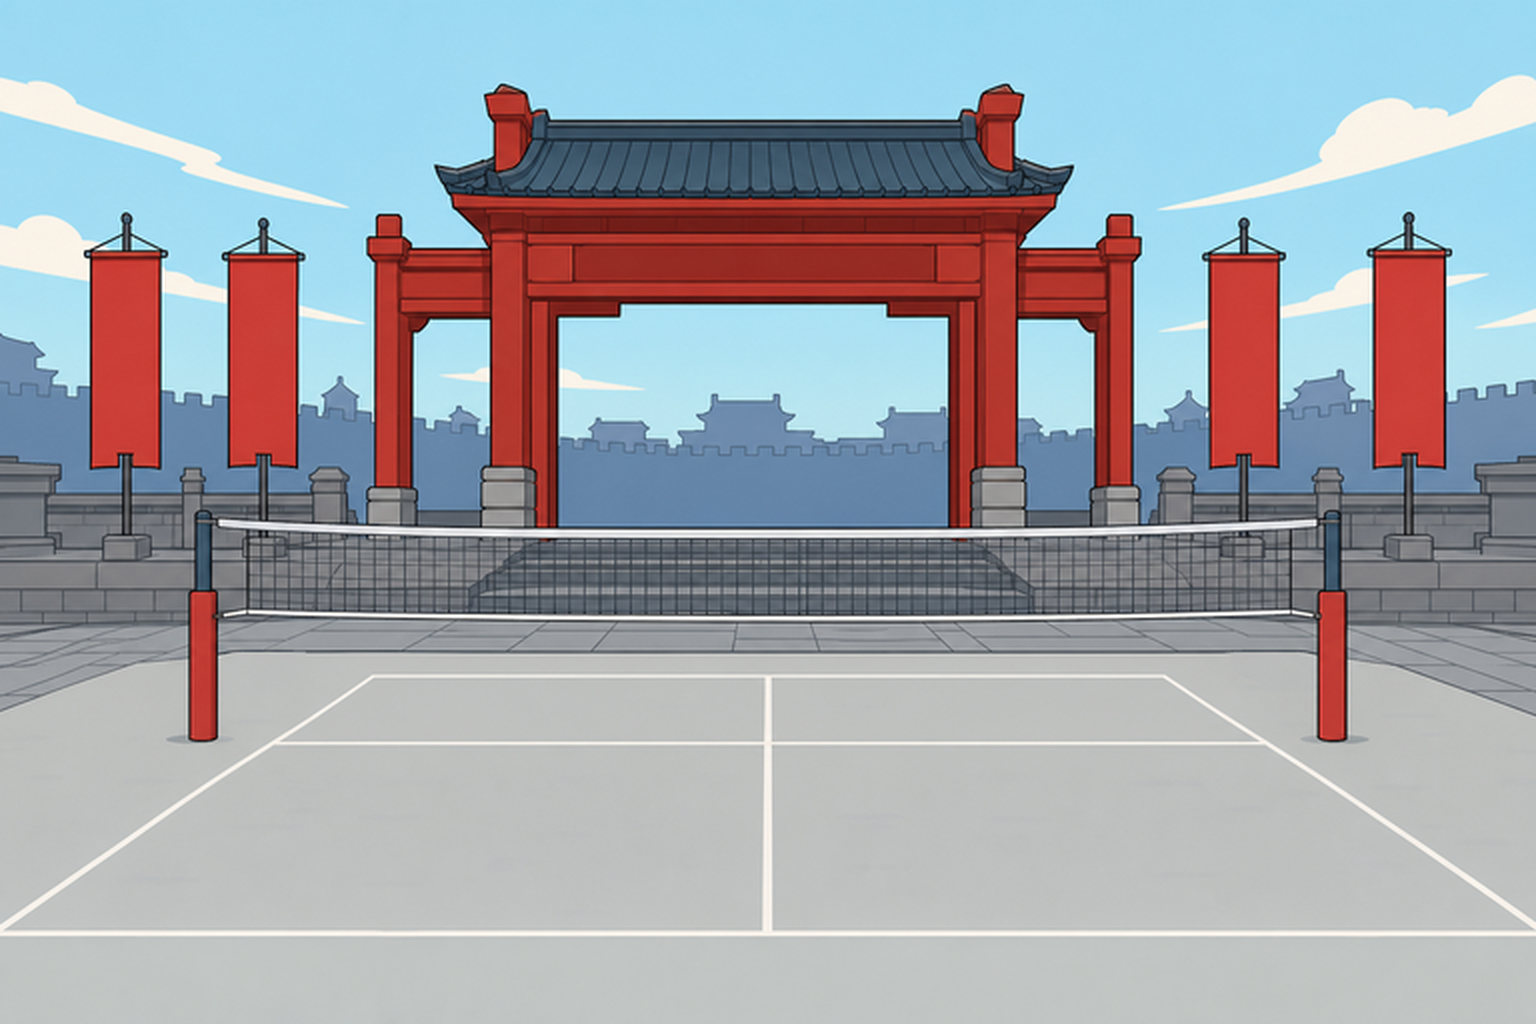
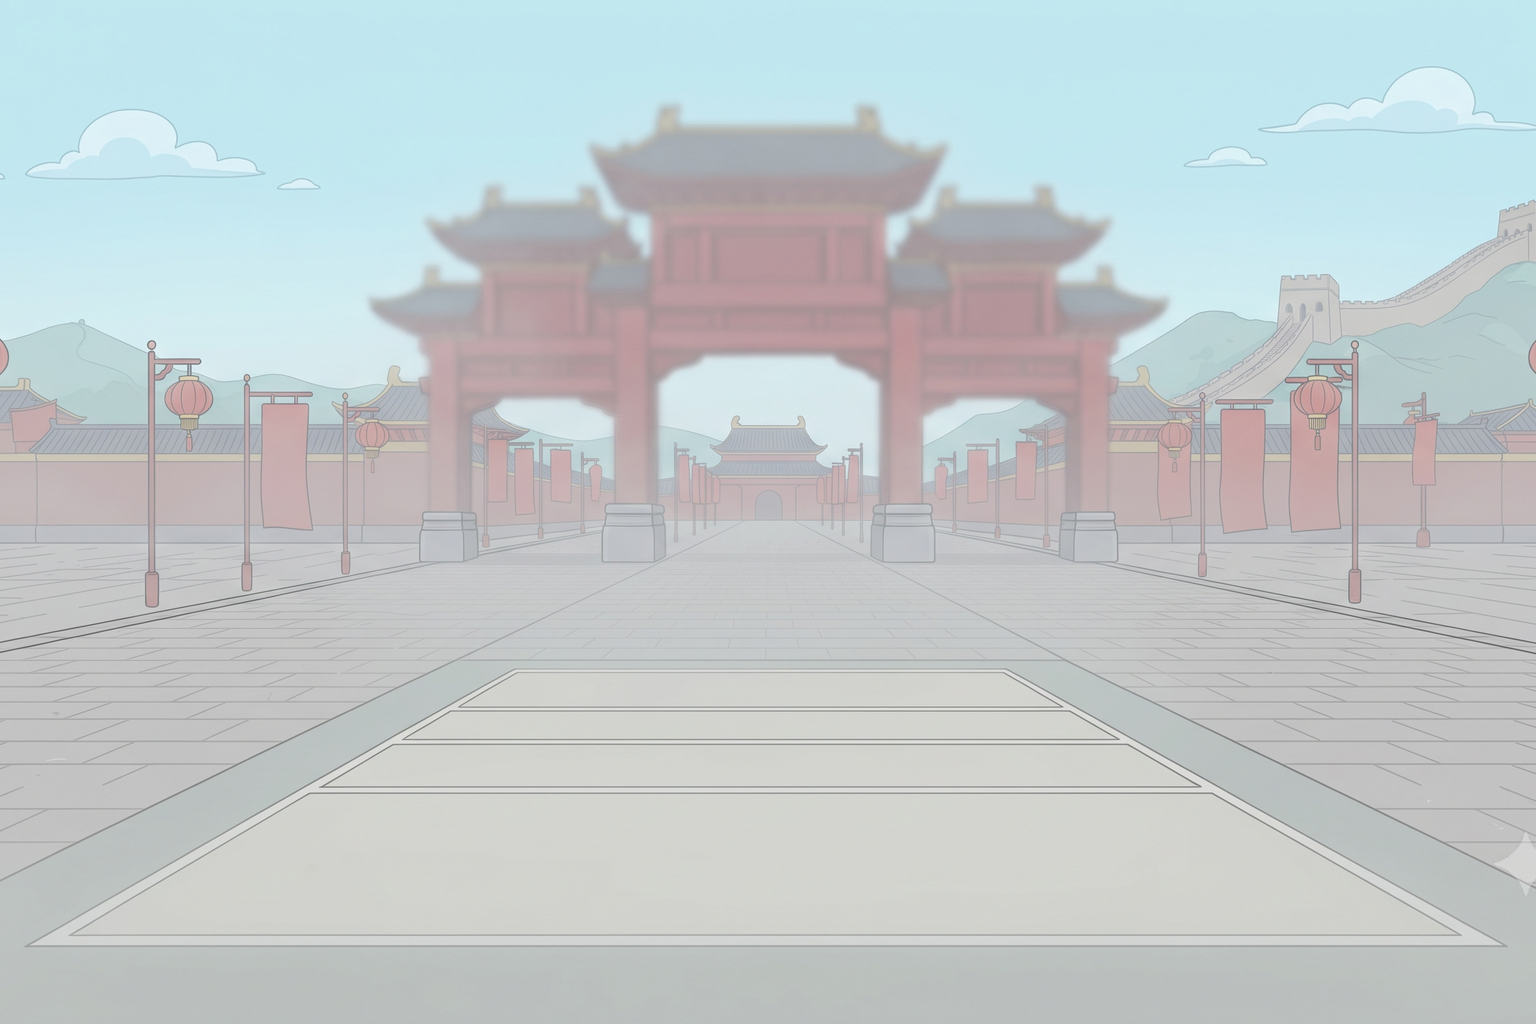
Intègre le pack Place du Matin (Gemini) pour Président Panda.
Skyline/far/crowd + bannières, poteau rouge-or et warn ; rendu dédié
avec sol pavé et props latéraux.

diff --git a/src/terrains.js b/src/terrains.js
@@ -66,6 +66,75 @@ function drawBgSkylinePack(p, t, raining, storm, cols) {
   if (raining) drawRain(storm ? 1 : 0.55);
 }
 
+/** Place du Matin PNG (Panda) — portail rouge, muraille, bannières. */
+function drawBgMatinPng(t, raining, storm) {
+  const p = SPRITES.mapMatin;
+
+  if (spriteReady(p.far)) {
+    ctx.globalAlpha = storm ? 0.55 : 0.8;
+    drawImgCoverBottom(p.far, 0, 0, W, GROUND_Y, 0);
+    ctx.globalAlpha = 1;
+  }
+  if (spriteReady(p.skyline)) drawImgCoverBottom(p.skyline, 0, 0, W, GROUND_Y, 0);
+
+  if (storm) {
+    ctx.fillStyle = "rgba(60,50,45,0.32)";
+    ctx.fillRect(0, 0, W, GROUND_Y);
+  } else if (raining) {
+    ctx.fillStyle = "rgba(90,80,70,0.16)";
+    ctx.fillRect(0, 0, W, GROUND_Y);
+  }
+
+  // Foule (bande haute du crowd_0) — discrète derrière le portail
+  if (spriteReady(p.crowd0)) {
+    const crowd = p.crowd0;
+    const sw = crowd.naturalWidth || crowd.width;
+    const sh = crowd.naturalHeight || crowd.height;
+    const srcH = Math.max(1, Math.floor(sh * 0.42));
+    const cw = W * 0.92;
+    const ch = Math.min(72, cw * (srcH / sw) * 1.05);
+    const cx = (W - cw) / 2;
+    const cy = GROUND_Y - 108 - ch;
+    ctx.globalAlpha = storm ? 0.65 : 0.82;
+    ctx.drawImage(crowd, 0, 0, sw, srcH, cx, cy, cw, ch);
+    ctx.globalAlpha = 1;
+  }
+
+  // Sol pavé gris-beige
+  const pave = ctx.createLinearGradient(0, GROUND_Y - 38, 0, H);
+  if (raining) {
+    pave.addColorStop(0, "#8a8278");
+    pave.addColorStop(1, "#5e5850");
+  } else {
+    pave.addColorStop(0, "#c8beb0");
+    pave.addColorStop(1, "#a89e90");
+  }
+  ctx.fillStyle = pave;
+  ctx.fillRect(0, GROUND_Y - 37, W, H - GROUND_Y + 37);
+  ctx.fillStyle = "rgba(0,0,0,0.08)";
+  ctx.fillRect(0, GROUND_Y, W, 2);
+
+  // bordure rouge / or
+  ctx.fillStyle = "#c62828";
+  ctx.fillRect(0, GROUND_Y - 41, W, 3);
+  ctx.fillStyle = "#c9a227";
+  ctx.fillRect(0, GROUND_Y - 38, W, 1);
+
+  // Bannières cérémonielles
+  if (spriteReady(p.flag)) {
+    const bob = Math.sin(t * 2.1) * 2;
+    drawMapProp(p.flag, 72, GROUND_Y + 2 + bob, 96);
+    ctx.save();
+    ctx.translate(W - 72, 0);
+    ctx.scale(-1, 1);
+    drawMapProp(p.flag, 0, GROUND_Y + 2 - bob, 96);
+    ctx.restore();
+  }
+
+  if (raining) drawRain(storm ? 1 : 0.55);
+  drawMapEventOverlay();
+}
+
 /** Pelouse Oval PNG (Trompette) — pelouse + FX poussière en code. */
 function drawBgPlagePng(t, raining, storm) {
   const p = SPRITES.mapTrompette;
@@ -675,11 +744,8 @@ function drawBgPrairie() {
   const storm = weather === "storm";
   const raining = weather === "rain" || storm;
   const tk = TERRAINS[terrain] && TERRAINS[terrain].key;
-  if (tk === "matin" && SPRITES.mapMatin && spriteReady(SPRITES.mapMatin.skyline)) {
-    drawBgSkylinePack(SPRITES.mapMatin, t, raining, storm, {
-      ground0: raining ? "#9a9080" : "#d2c4a8",
-      ground1: raining ? "#6e6558" : "#b5a68a"
-    });
+  if (tk === "matin" && typeof mapMatinReady === "function" && mapMatinReady()) {
+    drawBgMatinPng(t, raining, storm);
     return;
   }
   if (tk === "bosphore" && SPRITES.mapBosphore && spriteReady(SPRITES.mapBosphore.skyline)) {
@@ -998,6 +1064,9 @@ function terrainNetPostImg() {
   }
   if (key === "parade" && SPRITES.mapHoun && spriteReady(SPRITES.mapHoun.netPost)) {
     return SPRITES.mapHoun.netPost;
+  }
+  if (key === "matin" && SPRITES.mapMatin && spriteReady(SPRITES.mapMatin.netPost)) {
+    return SPRITES.mapMatin.netPost;
   }
   return null;
 }

diff --git a/src/assets.js b/src/assets.js
@@ -40,10 +40,23 @@ function initSprites() {
   initMapTrompette();
   initMapMicron();
   initMapHoun();
-  SPRITES.mapMatin = loadMapPack("matin", { skyline: "skyline.png", far: "far.png", thumb: "thumb.png" });
+  initMapMatin();
   SPRITES.mapBosphore = loadMapPack("bosphore", { skyline: "skyline.png", far: "far.png", thumb: "thumb.png" });
   SPRITES.mapAshram = loadMapPack("ashram", { skyline: "skyline.png", far: "far.png", thumb: "thumb.png" });
   SPRITES.mapAmazon = loadMapPack("amazon", { skyline: "skyline.png", far: "far.png", thumb: "thumb.png" });
+}
+
+/** Pack fond / props Place du Matin (terrain Panda). */
+function initMapMatin() {
+  SPRITES.mapMatin = loadMapPack("matin", {
+    skyline: "skyline.png", far: "far.png", crowd0: "crowd_0.png",
+    flag: "flag.png", warn: "warn.png", thumb: "thumb.png", netPost: "net_post.png"
+  });
+}
+
+function mapMatinReady() {
+  const p = SPRITES.mapMatin;
+  return !!(p && spriteReady(p.skyline));
 }
 
 /** Pack fond / props Place Grand-Rouge (terrain Vladou). */
